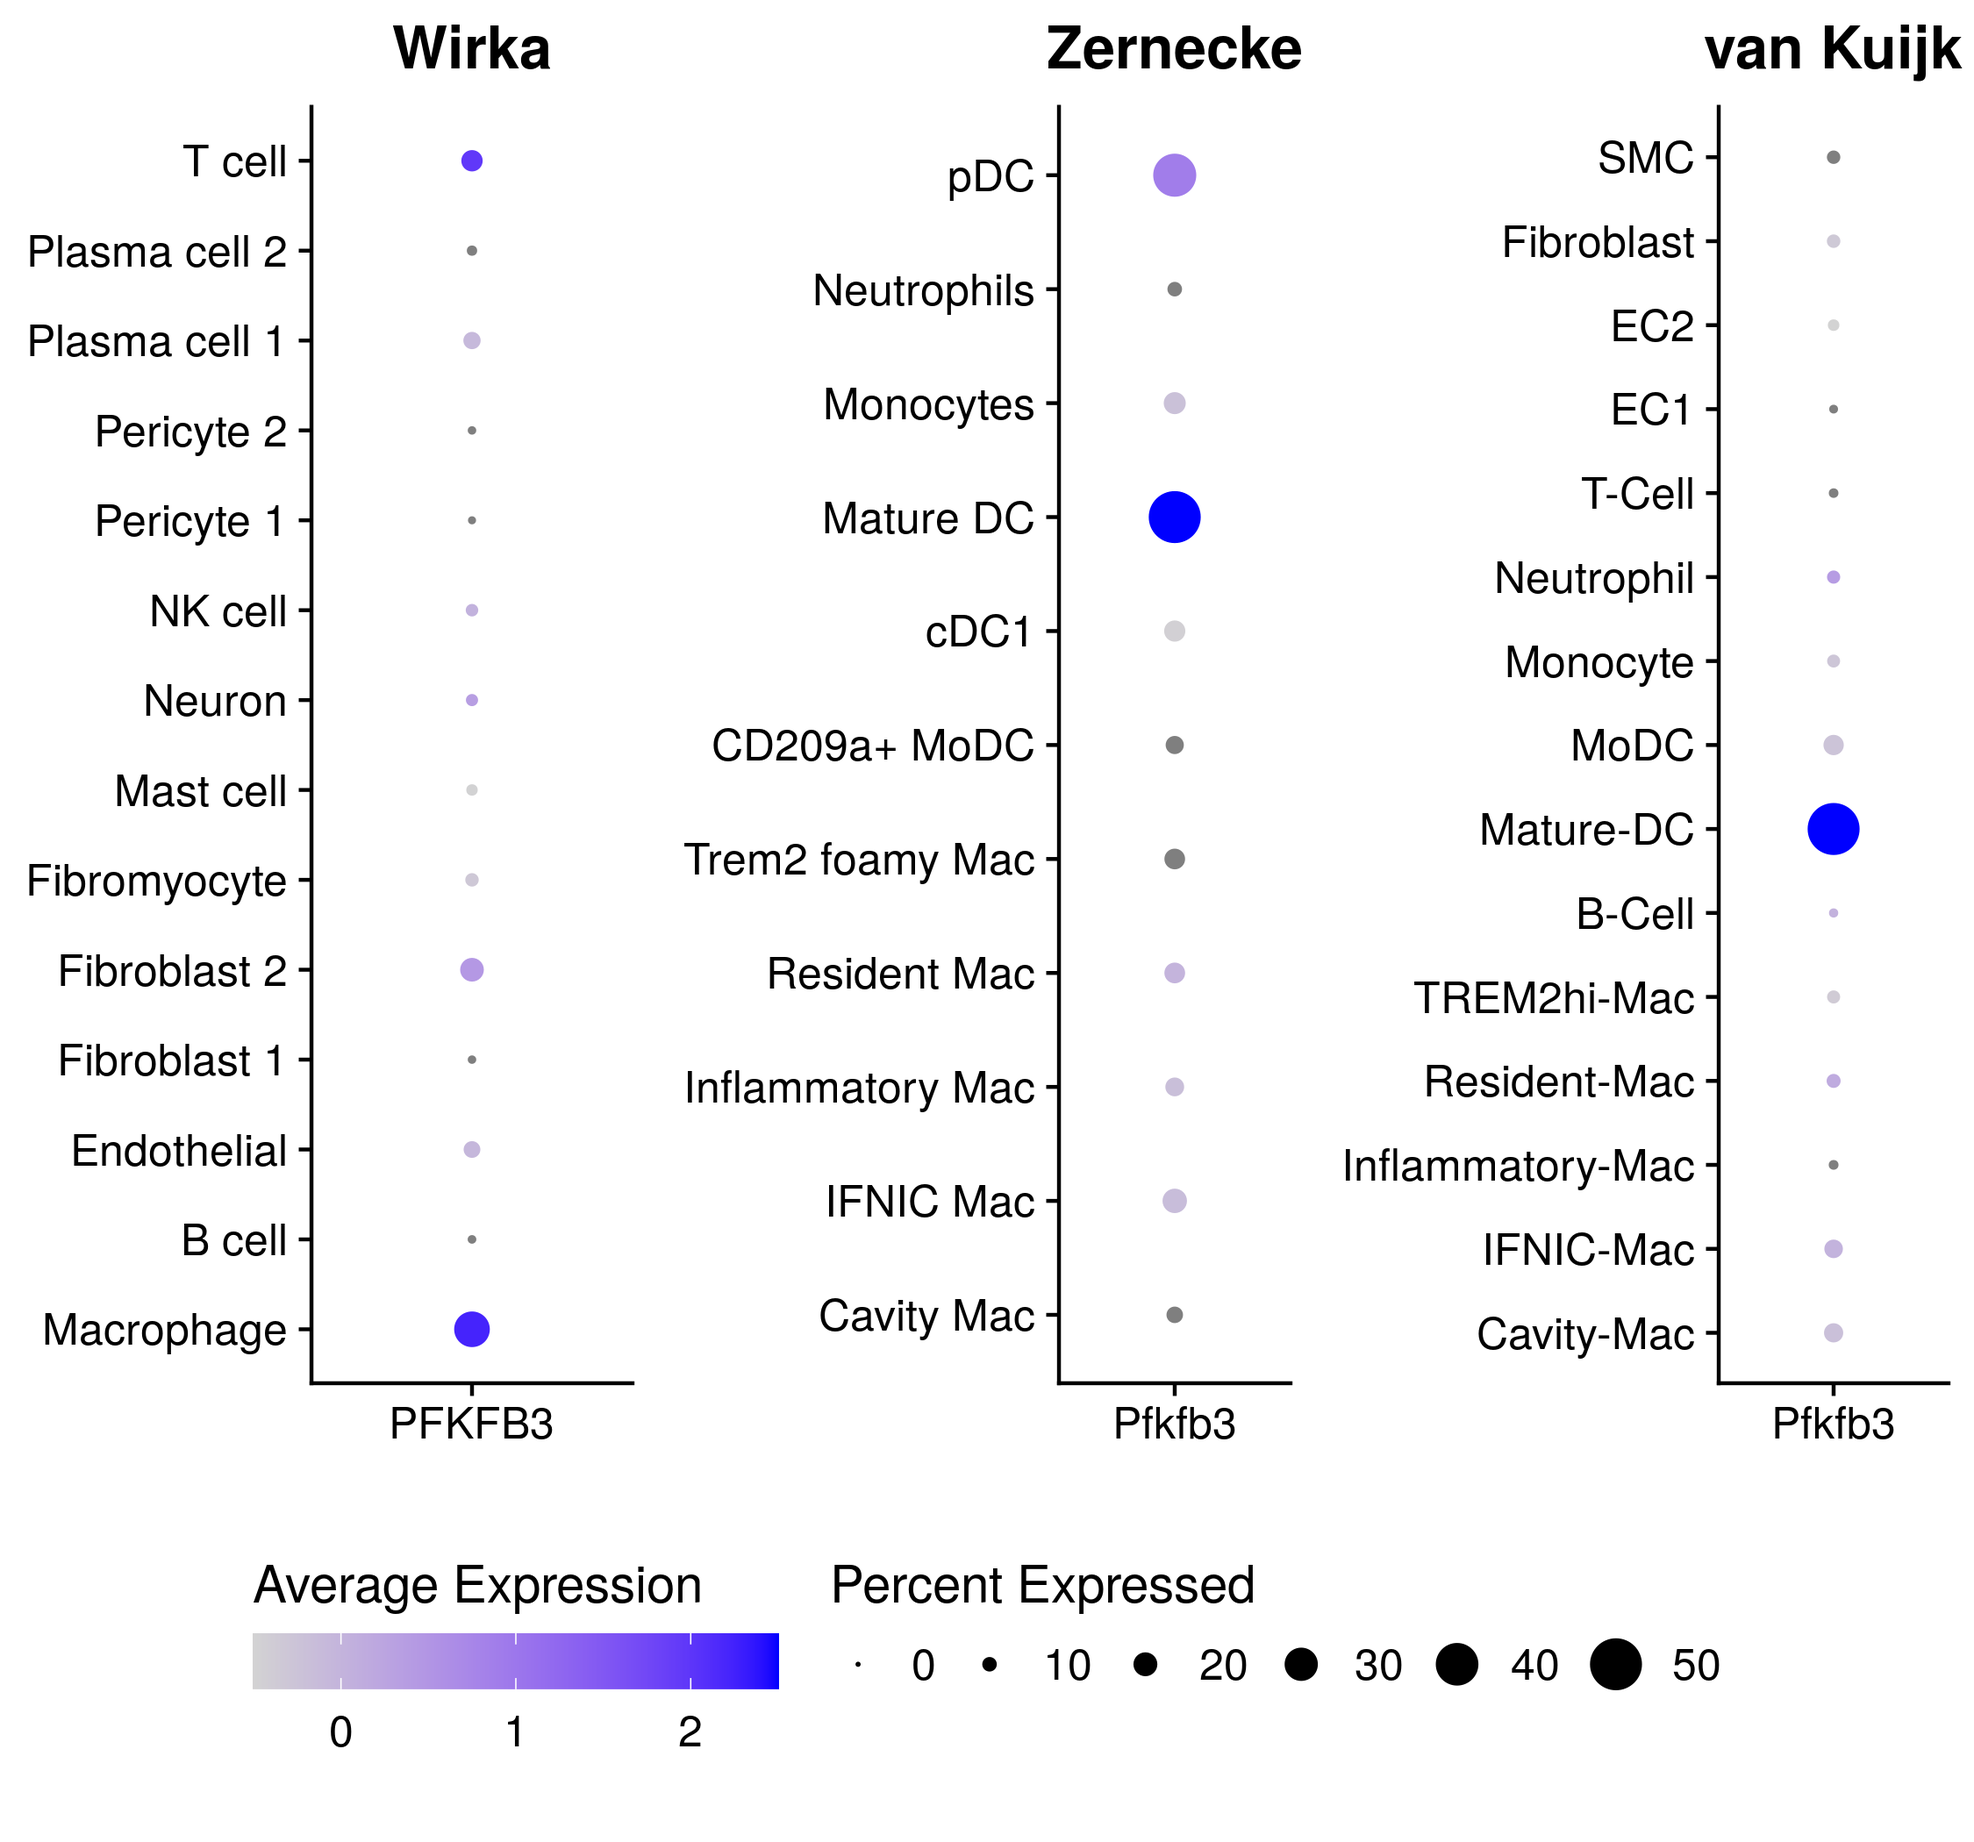
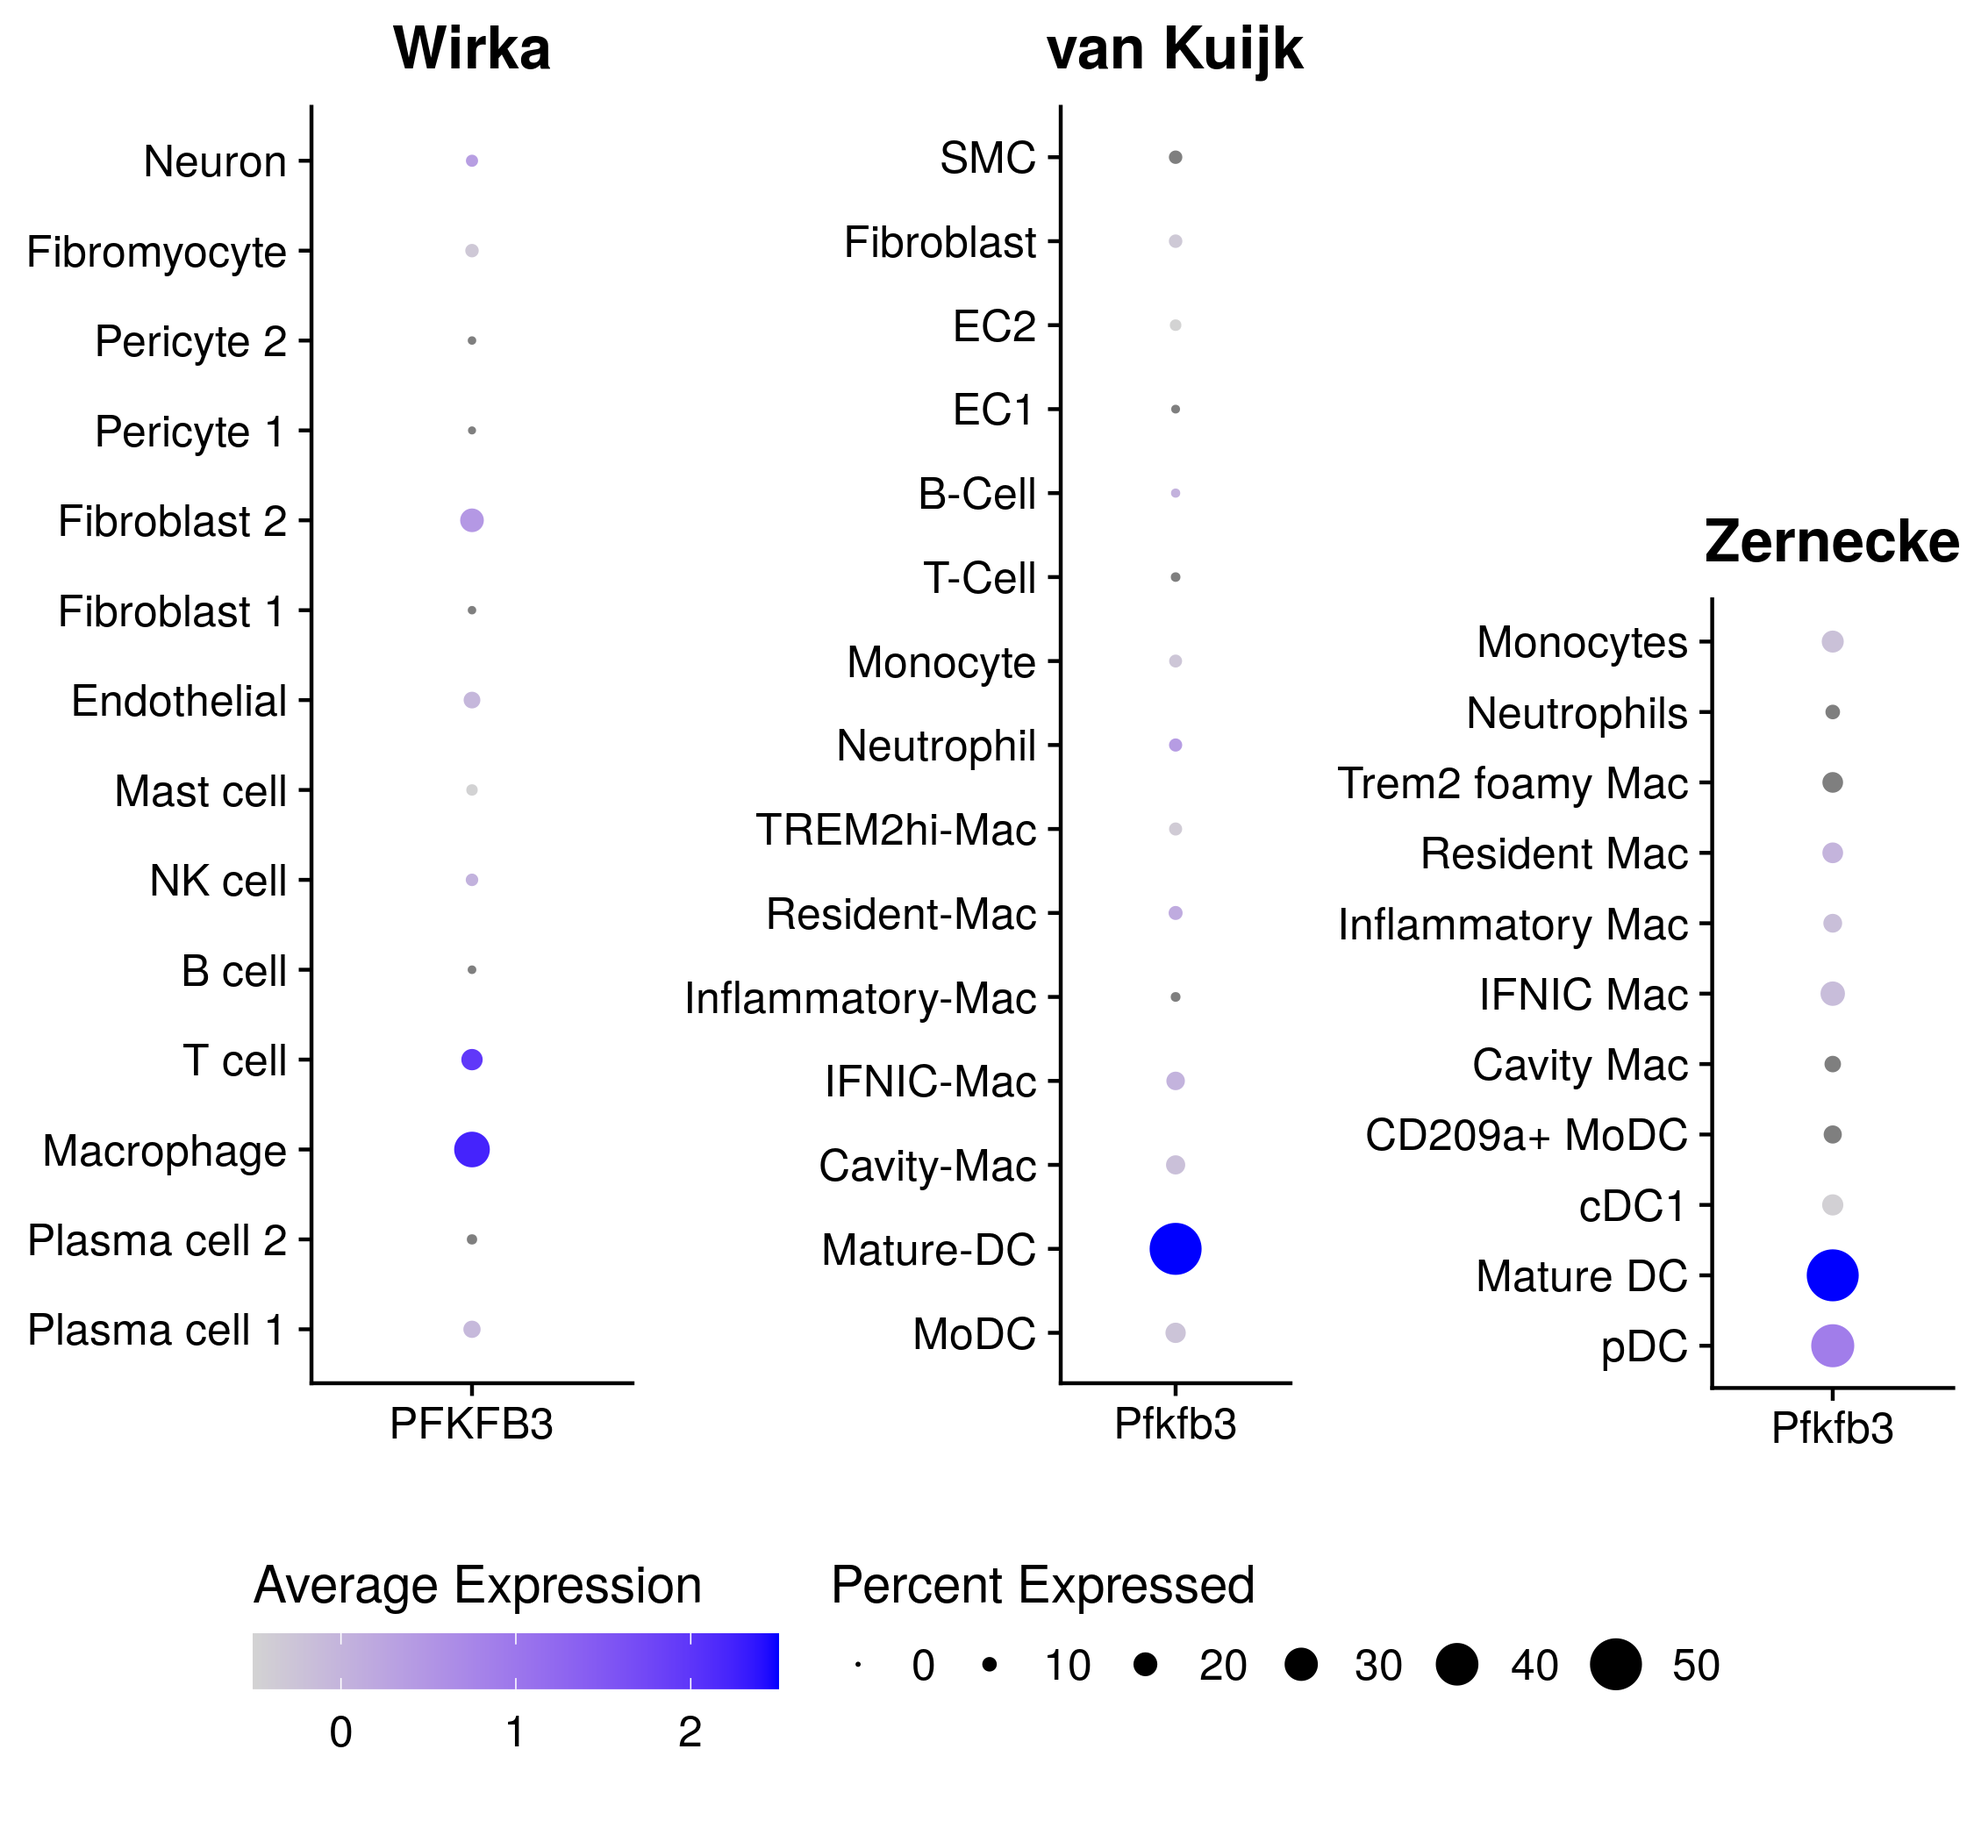
Reorder labels in fig

diff --git a/Analysis_PFKFB3/meta-dplot.md b/Analysis_PFKFB3/meta-dplot.md
@@ -63,6 +63,47 @@ Wirka <- readRDS("Wirka2019/data/M.rds")
 Zernecke <- readRDS("Zernecke2020/data/M.rds")
 ```
 
+### Reorder labels by shared annotations
+
+``` r
+Kuijk_lvls <- levels(Kuijk)
+Wirka_lvls <- levels(Wirka)
+Zernecke_lvls <- levels(Zernecke)
+
+# Last is macrophage since murine presents several subsets while Wirka only one
+lvl_ord <- vector("character")
+lvl_ord <- c(lvl_ord, grep("Plasma", c(Kuijk_lvls, Wirka_lvls, Zernecke_lvls), value=TRUE))
+lvl_ord <- c(lvl_ord, rev(grep("DC", c(Kuijk_lvls, Wirka_lvls, Zernecke_lvls), value=TRUE)))
+lvl_ord <- c(lvl_ord, grep("-?Mac", c(Kuijk_lvls, Wirka_lvls, Zernecke_lvls), value=TRUE))
+lvl_ord <- c(lvl_ord, grep("Neutro", c(Kuijk_lvls, Wirka_lvls, Zernecke_lvls), value=TRUE))
+lvl_ord <- c(lvl_ord, grep("Mono", c(Kuijk_lvls, Wirka_lvls, Zernecke_lvls), value=TRUE))
+lvl_ord <- c(lvl_ord, grep("T(-| )[Cc]ell", c(Kuijk_lvls, Wirka_lvls, Zernecke_lvls), value=TRUE))
+lvl_ord <- c(lvl_ord, grep("B(-| )[Cc]ell", c(Kuijk_lvls, Wirka_lvls, Zernecke_lvls), value=TRUE))
+lvl_ord <- c(lvl_ord, grep("NK", c(Kuijk_lvls, Wirka_lvls, Zernecke_lvls), value=TRUE))
+lvl_ord <- c(lvl_ord, grep("Mast", c(Kuijk_lvls, Wirka_lvls, Zernecke_lvls), value=TRUE))
+lvl_ord <- c(lvl_ord, grep("EC|Endothelial", c(Kuijk_lvls, Wirka_lvls, Zernecke_lvls), value=TRUE))
+lvl_ord <- c(lvl_ord, grep("Fibroblast", c(Kuijk_lvls, Wirka_lvls, Zernecke_lvls), value=TRUE))
+lvl_ord <- c(lvl_ord, grep("Peri", c(Kuijk_lvls, Wirka_lvls, Zernecke_lvls), value=TRUE))
+lvl_ord <- c(lvl_ord, grep("SMC", c(Kuijk_lvls, Wirka_lvls, Zernecke_lvls), value=TRUE))
+lvl_ord <- c(lvl_ord, grep("Fibromyo", c(Kuijk_lvls, Wirka_lvls, Zernecke_lvls), value=TRUE))
+lvl_ord <- c(lvl_ord, grep("Neuro", c(Kuijk_lvls, Wirka_lvls, Zernecke_lvls), value=TRUE))
+
+Kuijk_lvls <- intersect(lvl_ord, Kuijk_lvls)
+Wirka_lvls <- intersect(lvl_ord, Wirka_lvls)
+Zernecke_lvls <- intersect(lvl_ord, Zernecke_lvls)
+
+
+#Sanity check
+stopifnot(all(levels(Kuijk) %in% Kuijk_lvls))
+stopifnot(all(levels(Wirka) %in% Wirka_lvls))
+stopifnot(all(levels(Zernecke) %in% Zernecke_lvls))
+
+#Reorder by shared idents
+Idents(Kuijk) <- factor(as.character(Idents(Kuijk)), levels=Kuijk_lvls)
+Idents(Wirka) <- factor(as.character(Idents(Wirka)), levels=Wirka_lvls)
+Idents(Zernecke) <- factor(as.character(Idents(Zernecke)), levels=Zernecke_lvls)
+```
+
 ### Plot
 
 ``` r
@@ -80,7 +121,7 @@ tm
 
 ``` r
 p2 <- DotPlot(Wirka, feature="PFKFB3", scale.min=0, scale.max=50) + ggtitle("Wirka") + 
-scale_color_gradient(limits=c(-0.5, 2.5), low="lightgrey",high= "blue", breaks=c(0, 1, 2)) + tm
+scale_color_gradient(limits=c(-0.5, 2.5), low="lightgrey",high= "blue", breaks=c(0, 1, 2)) + tm 
 ```
 
     ## Scale for 'colour' is already present. Adding another scale for
@@ -88,7 +129,8 @@ scale_color_gradient(limits=c(-0.5, 2.5), low="lightgrey",high= "blue", breaks=c
 
 ``` r
 p3 <- DotPlot(Zernecke, feature="Pfkfb3", scale.min=0, scale.max=50) + ggtitle("Zernecke") + 
-scale_color_gradient(limits=c(-0.5, 2.5), low="lightgrey",high= "blue", breaks=c(0, 1, 2)) + tm
+scale_color_gradient(limits=c(-0.5, 2.5), low="lightgrey",high= "blue", breaks=c(0, 1, 2)) + tm + 
+theme(plot.margin=unit(c(50,2,2,2),"mm"))
 ```
 
     ## Scale for 'colour' is already present. Adding another scale for
@@ -104,15 +146,9 @@ leg <- get_legend(p3 + theme(legend.position="bottom") +
                          nrow=1, byrow=TRUE)
              ))
 
-plot_grid(p2 + NoLegend(), p3 + NoLegend(), p1 + NoLegend(),
+plot_grid(p2 + NoLegend(), p1 + NoLegend(), p3 + NoLegend(),
       ggplot()+theme_void(), leg, 
       ncol = 3, rel_heights = c(0.8,0.2))
 ```
 
 ![](./meta-dplot//figures/alt_Fig1A-1.png)<!-- -->
-
-### TRY
-
-``` r
-# res <- apply(M@assays$RNA@counts[, 1:5], 2, function(b) which(apply(ALL@assays$RNA@counts==b,2,all)))
-```
